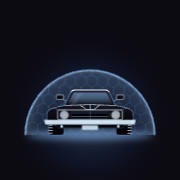
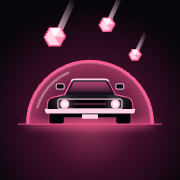
Ícono simplificado: auto bajo el domo con granizo
- Nuevo ícono pensado para verse chico: muscle car de frente, domo en rojo
  (estado Protegelo) y piedras grandes cayendo, sin detalles finos.
- Fuente en scripts/icon/icon.svg; variants.mjs arma la versión redondeada
  (icon.svg) y la versión a sangre para "maskable".
- Regenera icon-192/512, icon-maskable-512, apple-touch-icon, favicon.ico y
  favicon-32. Service worker v7 para que los teléfonos bajen los íconos nuevos.

diff --git a/public/sw.js b/public/sw.js
@@ -1,6 +1,6 @@
 // Service worker mínimo: cachea la "cáscara" de la app. El veredicto NUNCA se sirve desde caché
 // (un pronóstico viejo podría engañar): /api y Open-Meteo siempre van a la red.
-const CACHE = 'hg-shell-v6';
+const CACHE = 'hg-shell-v7';
 const SHELL = [
   '/', '/index.html', '/app.js', '/engine.js', '/styles.css', '/car-shield.js', '/manifest.webmanifest',
   '/icon.svg', '/icon-192.png', '/icon-512.png', '/favicon.ico', '/apple-touch-icon.png',
